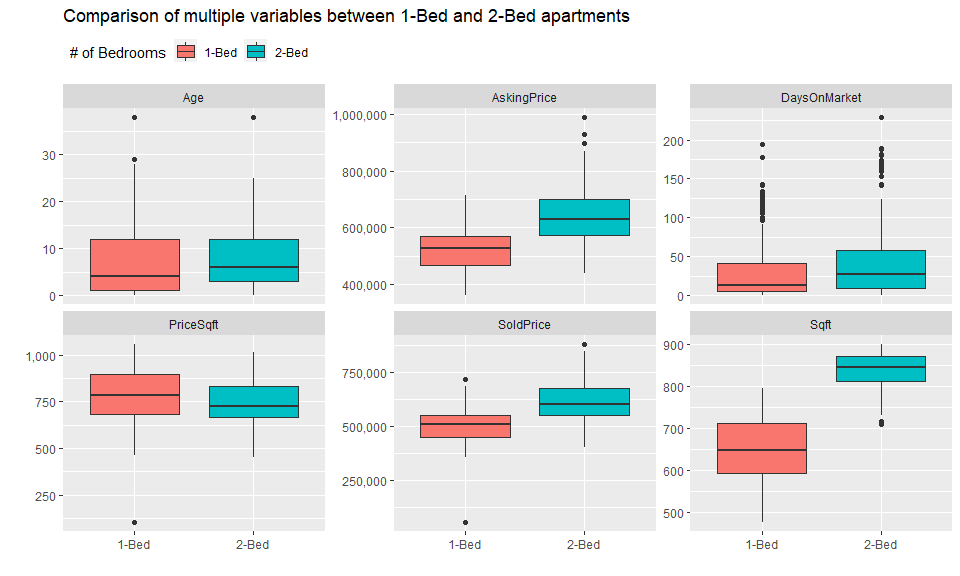
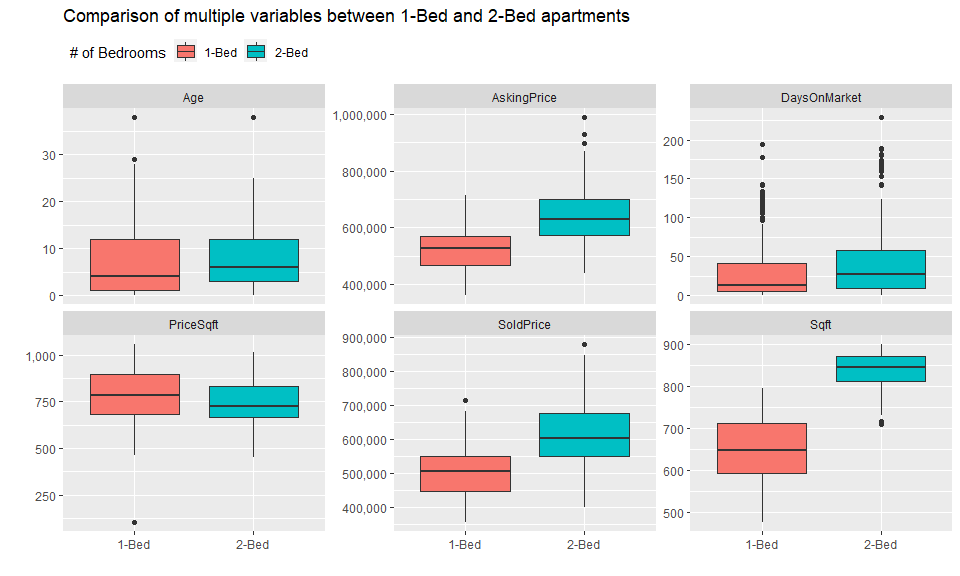
Added analysis on price differences

diff --git a/realestateanalysis.md b/realestateanalysis.md
@@ -8,13 +8,13 @@ sho
 The data used for this analysis was manually entered by the author
 obtained from <https://www.zealty.ca/>.
 
-| Unit | Address             | SoldPrice | AskingPrice | Bed | Bath | Sqft | Age | SoldDate  | DaysOnMarket | PriceSqft | Floor |
-| ---: | :------------------ | --------: | ----------: | --: | ---: | ---: | --: | :-------- | -----------: | --------: | ----: |
-|  323 | 9288 Odlin Road     |    565700 |      588000 |   2 |    2 |  897 |  11 | 7/13/2020 |            6 |  630.6577 |     3 |
-| 1205 | 7488 Lansdowne Road |    733000 |      768000 |   2 |    2 |  878 |   3 | 7/17/2020 |           21 |  834.8519 |    12 |
-|  417 | 23233 Gilley Road   |    525000 |      558888 |   2 |    2 |  850 |   0 | 4/1/2020  |          160 |  617.6471 |     4 |
-|  307 | 8033 Saba Road      |    595000 |      629000 |   2 |    2 |  862 |  10 | 7/8/2020  |           93 |  690.2552 |     3 |
-|  601 | 10155 River Drive   |    502500 |      509000 |   2 |    2 |  752 |   6 | 3/10/2020 |            7 |  668.2181 |     6 |
+| Unit | Address             | SoldPrice | AskingPrice | Bed | Bath | Sqft | Age | SoldDate  | DaysOnMarket | PriceSqft | Floor | bargaindiff |
+| ---: | :------------------ | --------: | ----------: | --: | ---: | ---: | --: | :-------- | -----------: | --------: | ----: | ----------: |
+|  323 | 9288 Odlin Road     |    565700 |      588000 |   2 |    2 |  897 |  11 | 7/13/2020 |            6 |  630.6577 |     3 |       22300 |
+| 1205 | 7488 Lansdowne Road |    733000 |      768000 |   2 |    2 |  878 |   3 | 7/17/2020 |           21 |  834.8519 |    12 |       35000 |
+|  417 | 23233 Gilley Road   |    525000 |      558888 |   2 |    2 |  850 |   0 | 4/1/2020  |          160 |  617.6471 |     4 |       33888 |
+|  307 | 8033 Saba Road      |    595000 |      629000 |   2 |    2 |  862 |  10 | 7/8/2020  |           93 |  690.2552 |     3 |       34000 |
+|  601 | 10155 River Drive   |    502500 |      509000 |   2 |    2 |  752 |   6 | 3/10/2020 |            7 |  668.2181 |     6 |        6500 |
 
 Summary statistics on sold price, asking price, price per sqft, sqft,
 age, and \# of days on market were examined and compared between
@@ -27,42 +27,48 @@ contributed by 2-bedroom condos having an overall higher square footage
 than 1-bedrooms (on average, 2-bedroom condos are 187.17 sqft larger
 than 1-bedroom condos.)
 
-<table class="kable_wrapper">
-
-<tbody>
-
-<tr>
-
-<td>
-
-|  | SoldPrice      | AskingPrice    | Bed       | Sqft          | Age            | DaysOnMarket   | PriceSqft      |
-| :- | :------------- | :------------- | :-------- | :------------ | :------------- | :------------- | :------------- |
-|  | Min. : 53900   | Min. :361800   | Min. :1   | Min. :475.0   | Min. : 0.000   | Min. : 0.00    | Min. : 103.9   |
-|  | 1st Qu.:448000 | 1st Qu.:469000 | 1st Qu.:1 | 1st Qu.:591.0 | 1st Qu.: 1.000 | 1st Qu.: 5.00  | 1st Qu.: 683.5 |
-|  | Median :508000 | Median :526000 | Median :1 | Median :646.0 | Median : 4.000 | Median : 13.00 | Median : 786.8 |
-|  | Mean :504831   | Mean :522629   | Mean :1   | Mean :650.3   | Mean : 7.741   | Mean : 31.15   | Mean : 783.1   |
-|  | 3rd Qu.:550000 | 3rd Qu.:570000 | 3rd Qu.:1 | 3rd Qu.:711.0 | 3rd Qu.:12.000 | 3rd Qu.: 41.00 | 3rd Qu.: 895.3 |
-|  | Max. :715900   | Max. :715900   | Max. :1   | Max. :795.0   | Max. :38.000   | Max. :194.00   | Max. :1058.2   |
-
-</td>
-
-<td>
-
-|  | SoldPrice      | AskingPrice    | Bed       | Sqft          | Age            | DaysOnMarket   | PriceSqft      |
-| :- | :------------- | :------------- | :-------- | :------------ | :------------- | :------------- | :------------- |
-|  | Min. :400000   | Min. :438000   | Min. :2   | Min. :709.0   | Min. : 0.000   | Min. : 0.00    | Min. : 455.1   |
-|  | 1st Qu.:550000 | 1st Qu.:573975 | 1st Qu.:2 | 1st Qu.:811.0 | 1st Qu.: 3.000 | 1st Qu.: 9.00  | 1st Qu.: 664.2 |
-|  | Median :602750 | Median :629000 | Median :2 | Median :845.0 | Median : 6.000 | Median : 27.00 | Median : 727.7 |
-|  | Mean :619565   | Mean :645807   | Mean :2   | Mean :837.5   | Mean : 7.855   | Mean : 43.29   | Mean : 740.5   |
-|  | 3rd Qu.:675750 | 3rd Qu.:699900 | 3rd Qu.:2 | 3rd Qu.:870.0 | 3rd Qu.:12.000 | 3rd Qu.: 57.75 | 3rd Qu.: 831.1 |
-|  | Max. :880000   | Max. :989000   | Max. :2   | Max. :900.0   | Max. :38.000   | Max. :229.00   | Max. :1017.3   |
-
-</td>
-
-</tr>
-
-</tbody>
-
-</table>
+    ## $`1`
+    ##    SoldPrice       AskingPrice          Bed         Sqft            Age        
+    ##  Min.   :357000   Min.   :361800   Min.   :1   Min.   :475.0   Min.   : 0.000  
+    ##  1st Qu.:448000   1st Qu.:469000   1st Qu.:1   1st Qu.:591.0   1st Qu.: 1.000  
+    ##  Median :508000   Median :526000   Median :1   Median :646.0   Median : 4.000  
+    ##  Mean   :507398   Mean   :522629   Mean   :1   Mean   :650.3   Mean   : 7.741  
+    ##  3rd Qu.:550000   3rd Qu.:570000   3rd Qu.:1   3rd Qu.:711.0   3rd Qu.:12.000  
+    ##  Max.   :715900   Max.   :715900   Max.   :1   Max.   :795.0   Max.   :38.000  
+    ##   DaysOnMarket      PriceSqft     
+    ##  Min.   :  0.00   Min.   : 103.9  
+    ##  1st Qu.:  5.00   1st Qu.: 683.5  
+    ##  Median : 13.00   Median : 786.8  
+    ##  Mean   : 31.15   Mean   : 783.1  
+    ##  3rd Qu.: 41.00   3rd Qu.: 895.3  
+    ##  Max.   :194.00   Max.   :1058.2  
+    ## 
+    ## $`2`
+    ##    SoldPrice       AskingPrice          Bed         Sqft            Age        
+    ##  Min.   :400000   Min.   :438000   Min.   :2   Min.   :709.0   Min.   : 0.000  
+    ##  1st Qu.:550000   1st Qu.:573975   1st Qu.:2   1st Qu.:811.0   1st Qu.: 3.000  
+    ##  Median :602750   Median :629000   Median :2   Median :845.0   Median : 6.000  
+    ##  Mean   :619565   Mean   :645807   Mean   :2   Mean   :837.5   Mean   : 7.855  
+    ##  3rd Qu.:675750   3rd Qu.:699900   3rd Qu.:2   3rd Qu.:870.0   3rd Qu.:12.000  
+    ##  Max.   :880000   Max.   :989000   Max.   :2   Max.   :900.0   Max.   :38.000  
+    ##   DaysOnMarket      PriceSqft     
+    ##  Min.   :  0.00   Min.   : 455.1  
+    ##  1st Qu.:  9.00   1st Qu.: 664.2  
+    ##  Median : 27.00   Median : 727.7  
+    ##  Mean   : 43.29   Mean   : 740.5  
+    ##  3rd Qu.: 57.75   3rd Qu.: 831.1  
+    ##  Max.   :229.00   Max.   :1017.3
 
 ![](realestateanalysis_files/figure-gfm/EDA-1.png)<!-- -->
+
+The difference between asking and sold price is investigated further to
+identify appropriate negotiation range. Considering there are some new
+apartments in the data that could only be sold at asking price, those
+were excluded in the following analysis.
+
+| Bed |  AvgDiff | MedianDiff | MinDiff | MaxDiff |
+| --: | -------: | ---------: | ------: | ------: |
+|   1 | 15403.77 |      14450 | \-58000 |  137000 |
+|   2 | 25377.65 |      20500 | \-60000 |  144000 |
+
+![](realestateanalysis_files/figure-gfm/bargaindiff-1.png)<!-- -->
